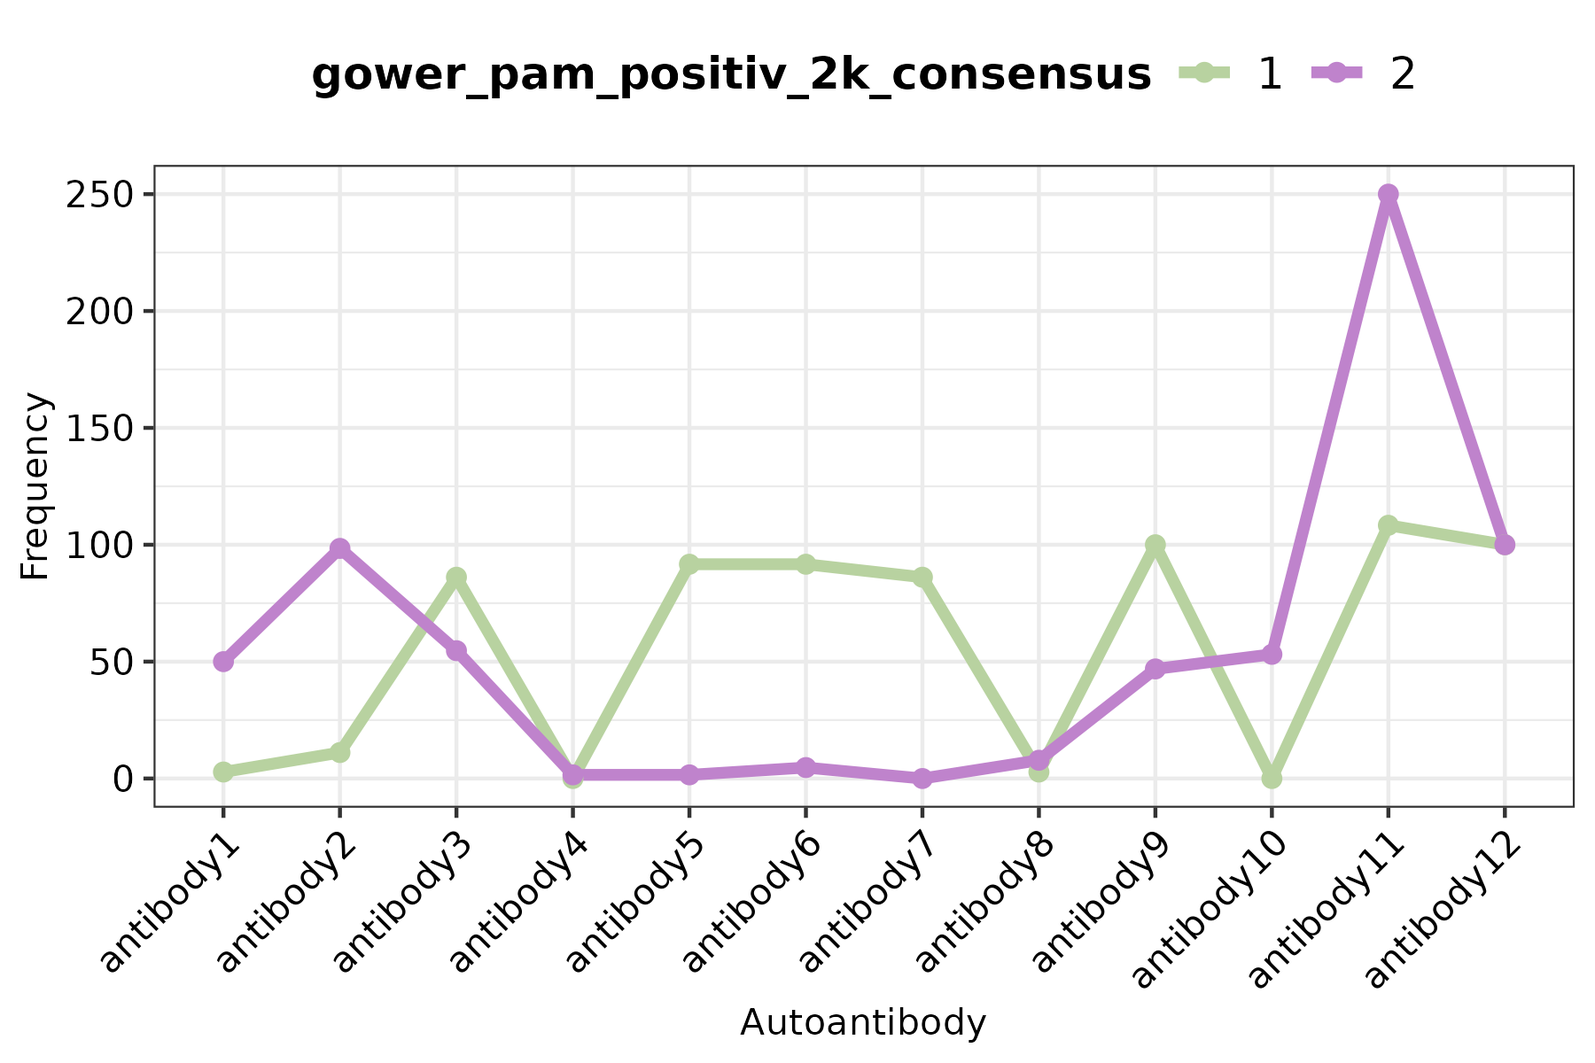
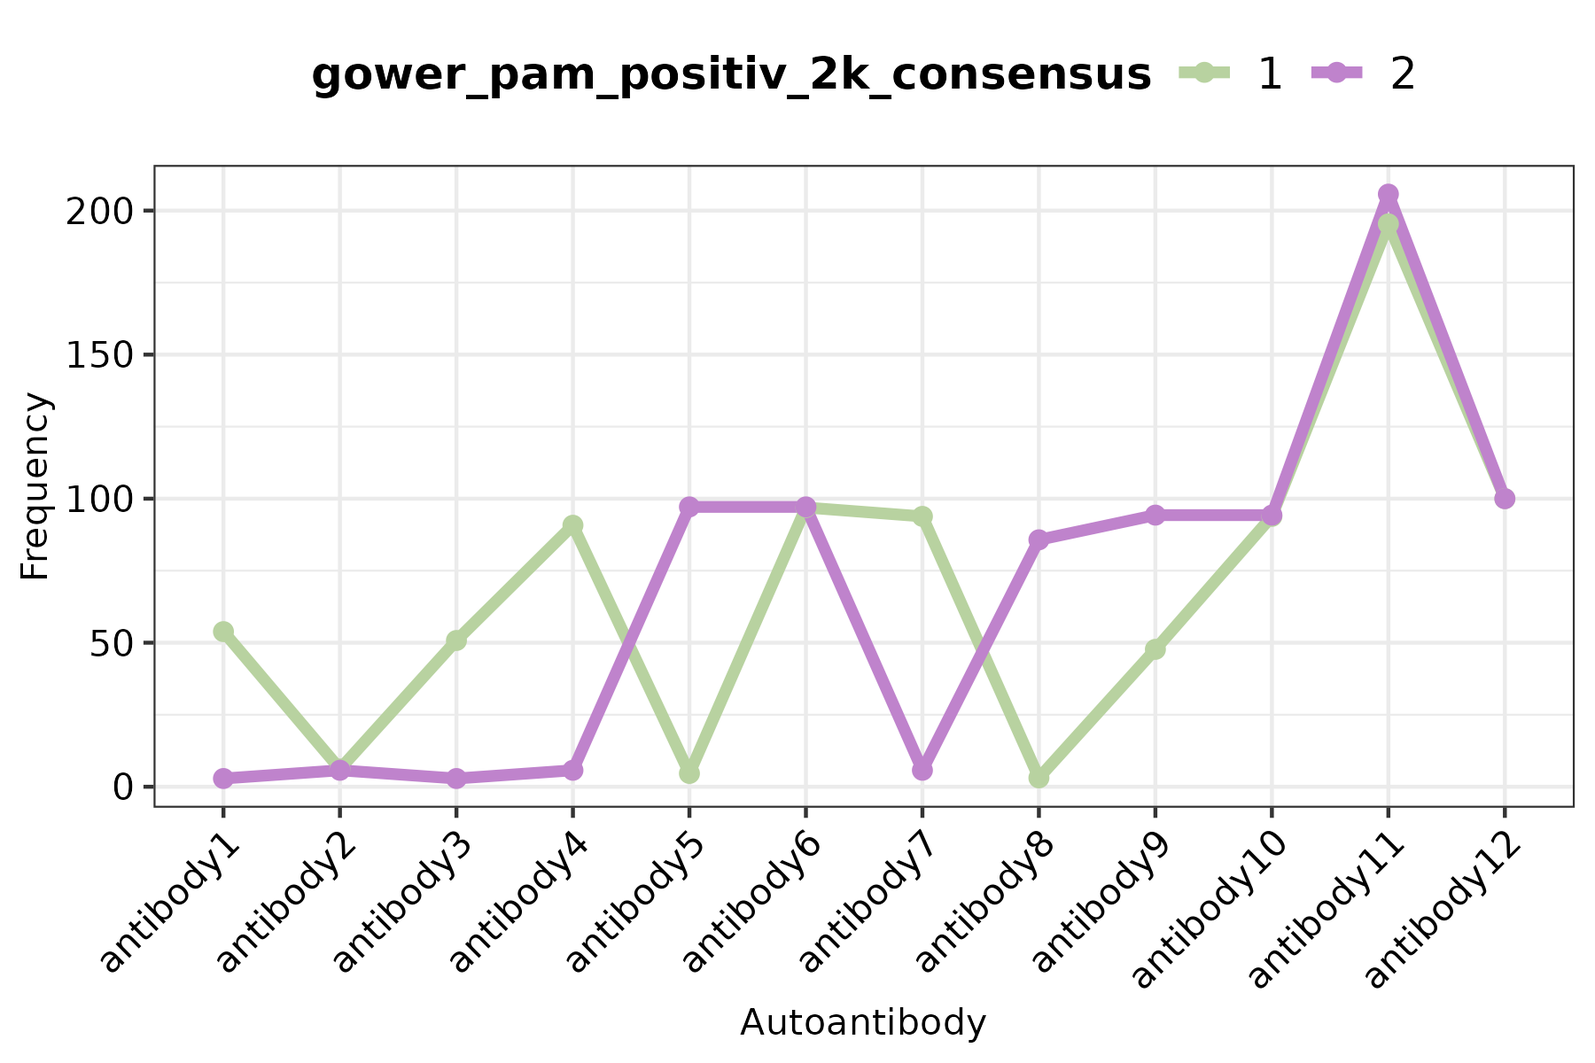
Deploying to gh-pages from @ Anacristina0914/autoclust@5525128db0d23c539ec8eec9d433c0f164592581 🚀

diff --git a/articles/autoclust.html b/articles/autoclust.html
@@ -84,19 +84,19 @@ data is located in your computer.</p>
 <span><span class="co"># Explore dataset</span></span>
 <span><span class="fu"><a href="https://rdrr.io/r/utils/head.html" class="external-link">head</a></span><span class="op">(</span><span class="va">clinical_data_df</span><span class="op">)</span></span></code></pre></div>
 <pre><code><span><span class="co">##         antibody1 antibody2 antibody3 antibody4 antibody5 antibody6 antibody7</span></span>
-<span><span class="co">## sample1         0         0         1         0         1         1         1</span></span>
-<span><span class="co">## sample2         0         0         0         0         1         1         1</span></span>
-<span><span class="co">## sample3         1         0         1         0         1         1         1</span></span>
-<span><span class="co">## sample4         0         0         1         0         1         0         1</span></span>
-<span><span class="co">## sample5         0         0         1         0         1         1         1</span></span>
-<span><span class="co">## sample6         1         1         1         0         0         0         0</span></span>
+<span><span class="co">## sample1         1         0         1         1         0         1         1</span></span>
+<span><span class="co">## sample2         1         0         1         1         0         1         1</span></span>
+<span><span class="co">## sample3         1         0         1         1         0         1         1</span></span>
+<span><span class="co">## sample4         1         0         1         1         0         1         1</span></span>
+<span><span class="co">## sample5         1         0         1         1         0         1         1</span></span>
+<span><span class="co">## sample6         1         0         1         1         0         1         0</span></span>
 <span><span class="co">##         antibody8 antibody9 antibody10 antibody11 antibody12</span></span>
-<span><span class="co">## sample1         0         1          0          1          1</span></span>
-<span><span class="co">## sample2         0         1          0          1          1</span></span>
-<span><span class="co">## sample3         0         1          0          1          1</span></span>
-<span><span class="co">## sample4         0         1          0          1          1</span></span>
-<span><span class="co">## sample5         0         1          0          1          1</span></span>
-<span><span class="co">## sample6         0         1          0          1          1</span></span></code></pre>
+<span><span class="co">## sample1         0         0          1          1          1</span></span>
+<span><span class="co">## sample2         0         1          1          1          1</span></span>
+<span><span class="co">## sample3         0         1          1          1          1</span></span>
+<span><span class="co">## sample4         0         1          1          1          1</span></span>
+<span><span class="co">## sample5         0         1          1          1          1</span></span>
+<span><span class="co">## sample6         0         1          1          1          1</span></span></code></pre>
 <div class="sourceCode" id="cb4"><pre class="downlit sourceCode r">
 <code class="sourceCode R"><span><span class="co"># Establish a directory where to save your results</span></span>
 <span><span class="va">output_data_dir</span> <span class="op">&lt;-</span> <span class="st">"."</span> <span class="co"># This will save the results in the current working directory. You can change it for whatever you want.</span></span></code></pre></div>
@@ -107,96 +107,14 @@ data is located in your computer.</p>
 <p>One can see all the possible parameters of the function
 running:<br>
 /home/runner/work/_temp/Library/autoclust/help/cluster_eval</p>
-<pre><code><span><span class="co">## boot 1 </span></span>
-<span><span class="co">## boot 2 </span></span>
-<span><span class="co">## boot 3 </span></span>
-<span><span class="co">## boot 4 </span></span>
-<span><span class="co">## boot 5 </span></span>
-<span><span class="co">## boot 6 </span></span>
-<span><span class="co">## boot 7 </span></span>
-<span><span class="co">## boot 8 </span></span>
-<span><span class="co">## boot 9 </span></span>
-<span><span class="co">## boot 10</span></span></code></pre>
-<pre><code><span><span class="co">## boot 1 </span></span>
-<span><span class="co">## boot 2 </span></span>
-<span><span class="co">## boot 3 </span></span>
-<span><span class="co">## boot 4 </span></span>
-<span><span class="co">## boot 5 </span></span>
-<span><span class="co">## boot 6 </span></span>
-<span><span class="co">## boot 7 </span></span>
-<span><span class="co">## boot 8 </span></span>
-<span><span class="co">## boot 9 </span></span>
-<span><span class="co">## boot 10</span></span></code></pre>
-<pre><code><span><span class="co">## boot 1 </span></span>
-<span><span class="co">## boot 2 </span></span>
-<span><span class="co">## boot 3 </span></span>
-<span><span class="co">## boot 4 </span></span>
-<span><span class="co">## boot 5 </span></span>
-<span><span class="co">## boot 6 </span></span>
-<span><span class="co">## boot 7 </span></span>
-<span><span class="co">## boot 8 </span></span>
-<span><span class="co">## boot 9 </span></span>
-<span><span class="co">## boot 10</span></span></code></pre>
-<pre><code><span><span class="co">## boot 1 </span></span>
-<span><span class="co">## boot 2 </span></span>
-<span><span class="co">## boot 3 </span></span>
-<span><span class="co">## boot 4 </span></span>
-<span><span class="co">## boot 5 </span></span>
-<span><span class="co">## boot 6 </span></span>
-<span><span class="co">## boot 7 </span></span>
-<span><span class="co">## boot 8 </span></span>
-<span><span class="co">## boot 9 </span></span>
-<span><span class="co">## boot 10</span></span></code></pre>
-<pre><code><span><span class="co">## boot 1 </span></span>
-<span><span class="co">## boot 2 </span></span>
-<span><span class="co">## boot 3 </span></span>
-<span><span class="co">## boot 4 </span></span>
-<span><span class="co">## boot 5 </span></span>
-<span><span class="co">## boot 6 </span></span>
-<span><span class="co">## boot 7 </span></span>
-<span><span class="co">## boot 8 </span></span>
-<span><span class="co">## boot 9 </span></span>
-<span><span class="co">## boot 10</span></span></code></pre>
-<pre><code><span><span class="co">## boot 1 </span></span>
-<span><span class="co">## boot 2 </span></span>
-<span><span class="co">## boot 3 </span></span>
-<span><span class="co">## boot 4 </span></span>
-<span><span class="co">## boot 5 </span></span>
-<span><span class="co">## boot 6 </span></span>
-<span><span class="co">## boot 7 </span></span>
-<span><span class="co">## boot 8 </span></span>
-<span><span class="co">## boot 9 </span></span>
-<span><span class="co">## boot 10</span></span></code></pre>
-<pre><code><span><span class="co">## boot 1 </span></span>
-<span><span class="co">## boot 2 </span></span>
-<span><span class="co">## boot 3 </span></span>
-<span><span class="co">## boot 4 </span></span>
-<span><span class="co">## boot 5 </span></span>
-<span><span class="co">## boot 6 </span></span>
-<span><span class="co">## boot 7 </span></span>
-<span><span class="co">## boot 8 </span></span>
-<span><span class="co">## boot 9 </span></span>
-<span><span class="co">## boot 10</span></span></code></pre>
-<pre><code><span><span class="co">## boot 1 </span></span>
-<span><span class="co">## boot 2 </span></span>
-<span><span class="co">## boot 3 </span></span>
-<span><span class="co">## boot 4 </span></span>
-<span><span class="co">## boot 5 </span></span>
-<span><span class="co">## boot 6 </span></span>
-<span><span class="co">## boot 7 </span></span>
-<span><span class="co">## boot 8 </span></span>
-<span><span class="co">## boot 9 </span></span>
-<span><span class="co">## boot 10</span></span></code></pre>
-<pre><code><span><span class="co">## boot 1 </span></span>
-<span><span class="co">## boot 2 </span></span>
-<span><span class="co">## boot 3 </span></span>
-<span><span class="co">## boot 4 </span></span>
-<span><span class="co">## boot 5 </span></span>
-<span><span class="co">## boot 6 </span></span>
-<span><span class="co">## boot 7 </span></span>
-<span><span class="co">## boot 8 </span></span>
-<span><span class="co">## boot 9 </span></span>
-<span><span class="co">## boot 10</span></span></code></pre>
+<div class="sourceCode" id="cb5"><pre class="downlit sourceCode r">
+<code class="sourceCode R"><span><span class="co"># Run cluster evaluation</span></span>
+<span><span class="va">n_boots</span> <span class="op">&lt;-</span> <span class="fl">10</span> <span class="co"># How many iterations?</span></span>
+<span><span class="va">n_dim</span> <span class="op">&lt;-</span> <span class="fl">10</span> <span class="co"># Until how many clusters to calculate</span></span>
+<span><span class="va">cluster_evaluation_autoantibodies</span> <span class="op">&lt;-</span> <span class="fu"><a href="../reference/cluster_eval.html">cluster_eval</a></span><span class="op">(</span>x <span class="op">=</span> <span class="va">clinical_data_df</span>, ndim <span class="op">=</span> <span class="va">n_dim</span>, distance <span class="op">=</span> <span class="st">"gower"</span>,</span>
+<span>                                                            clust_method <span class="op">=</span> <span class="st">"pam"</span>, save_plot <span class="op">=</span> <span class="cn">TRUE</span>, data_type <span class="op">=</span> <span class="st">"continous"</span>, </span>
+<span>                                                            boot_runs <span class="op">=</span> <span class="va">n_boots</span>, plots_suffix <span class="op">=</span> <span class="st">"clust_positv_pam_gower"</span>,</span>
+<span>                                                            plots_dir <span class="op">=</span> <span class="va">output_data_dir</span><span class="op">)</span></span></code></pre></div>
 </div>
 <div class="section level2">
 <h2 id="explore-results">Explore results<a class="anchor" aria-label="anchor" href="#explore-results"></a>
@@ -213,7 +131,7 @@ within the same cluster) and the nearest-cluster distance (i.e. how far
 the data point is from points in the nearest neighboring cluster) are
 calculated. The individual silhouette scores are represented on the
 first 10 plots, while the average is represented on the last plot.</p>
-<div class="sourceCode" id="cb14"><pre class="downlit sourceCode r">
+<div class="sourceCode" id="cb6"><pre class="downlit sourceCode r">
 <code class="sourceCode R"><span><span class="co"># Show silhouette plots</span></span>
 <span><span class="fu">cowplot</span><span class="fu">::</span><span class="fu"><a href="https://wilkelab.org/cowplot/reference/plot_grid.html" class="external-link">plot_grid</a></span><span class="op">(</span>plotlist <span class="op">=</span> <span class="fu"><a href="https://rdrr.io/r/base/lapply.html" class="external-link">lapply</a></span><span class="op">(</span><span class="va">cluster_evaluation_autoantibodies</span><span class="op">$</span><span class="va">silhouette_plots</span>, <span class="kw">function</span><span class="op">(</span><span class="va">x</span><span class="op">)</span> <span class="va">x</span><span class="op">)</span>, ncol <span class="op">=</span> <span class="fl">2</span><span class="op">)</span> <span class="op">+</span> <span class="fu"><a href="https://ggplot2.tidyverse.org/reference/ggtheme.html" class="external-link">theme_bw</a></span><span class="op">(</span><span class="op">)</span></span></code></pre></div>
 <p><img src="autoclust_files/figure-html/show_clust_eval_results_silhouette-1.png" width="1650"></p>
@@ -224,7 +142,7 @@ first 10 plots, while the average is represented on the last plot.</p>
 <p>Bootstrap stability represented by mean jaccard index, i.e. how
 similar are clusters within themselves when several iterations are
 carried out. The Mean jaccard score by cluster is displayed.</p>
-<div class="sourceCode" id="cb15"><pre class="downlit sourceCode r">
+<div class="sourceCode" id="cb7"><pre class="downlit sourceCode r">
 <code class="sourceCode R"><span><span class="co"># Show jaccard index plots</span></span>
 <span><span class="fu">cowplot</span><span class="fu">::</span><span class="fu"><a href="https://wilkelab.org/cowplot/reference/plot_grid.html" class="external-link">plot_grid</a></span><span class="op">(</span>plotlist <span class="op">=</span> <span class="fu"><a href="https://rdrr.io/r/base/lapply.html" class="external-link">lapply</a></span><span class="op">(</span><span class="va">cluster_evaluation_autoantibodies</span><span class="op">$</span><span class="va">bootstrap</span>, <span class="kw">function</span><span class="op">(</span><span class="va">x</span><span class="op">)</span> <span class="va">x</span><span class="op">$</span><span class="va">plot</span> <span class="op">+</span> <span class="fu"><a href="https://ggplot2.tidyverse.org/reference/ggtheme.html" class="external-link">theme_bw</a></span><span class="op">(</span><span class="op">)</span><span class="op">)</span><span class="op">)</span></span></code></pre></div>
 <p><img src="autoclust_files/figure-html/show_clust_eval_results_jaccard-1.png" width="2700"></p>
@@ -237,7 +155,7 @@ clustering using the specified distance matrix and clustering algorithm,
 and the consensus class, which uses the boostrap information to assign
 patients to the cluster they are most likely to belong to based on
 <code>n_boots</code> number of iterations.</p>
-<div class="sourceCode" id="cb16"><pre class="downlit sourceCode r">
+<div class="sourceCode" id="cb8"><pre class="downlit sourceCode r">
 <code class="sourceCode R"><span><span class="co"># Add group information to your clinical df</span></span>
 <span><span class="va">clinical_data_wcluster_df</span> <span class="op">&lt;-</span> <span class="va">clinical_data_df</span> <span class="op"><a href="https://magrittr.tidyverse.org/reference/pipe.html" class="external-link">%&gt;%</a></span></span>
 <span>  <span class="fu"><a href="https://dplyr.tidyverse.org/reference/mutate.html" class="external-link">mutate</a></span><span class="op">(</span>gower_pam_positiv_2k <span class="op">=</span> <span class="fu"><a href="https://rdrr.io/r/base/factor.html" class="external-link">as.factor</a></span><span class="op">(</span><span class="va">cluster_evaluation_autoantibodies</span><span class="op">$</span><span class="va">fit</span><span class="op">$</span><span class="va">`2`</span><span class="op">$</span><span class="va">clustering</span><span class="op">)</span>,</span>
@@ -250,15 +168,15 @@ patients to the cluster they are most likely to belong to based on
 <span><span class="fu"><a href="../reference/make_aa_lineplot.html">make_aa_lineplot</a></span><span class="op">(</span>x <span class="op">=</span> <span class="va">clinical_data_wcluster_df</span>, aa_colnames <span class="op">=</span> <span class="va">aa_colnames</span>, </span>
 <span>  subgroup_column <span class="op">=</span> <span class="st">"gower_pam_positiv_2k"</span><span class="op">)</span></span></code></pre></div>
 <p><img src="autoclust_files/figure-html/make_lineplot-1.png" width="900"></p>
-<div class="sourceCode" id="cb17"><pre class="downlit sourceCode r">
+<div class="sourceCode" id="cb9"><pre class="downlit sourceCode r">
 <code class="sourceCode R"><span><span class="fu"><a href="../reference/make_aa_lineplot.html">make_aa_lineplot</a></span><span class="op">(</span>x <span class="op">=</span> <span class="va">clinical_data_wcluster_df</span>, aa_colnames <span class="op">=</span> <span class="va">aa_colnames</span>, </span>
 <span>  subgroup_column <span class="op">=</span> <span class="st">"gower_pam_positiv_3k"</span><span class="op">)</span></span></code></pre></div>
 <p><img src="autoclust_files/figure-html/make_lineplot-2.png" width="900"></p>
-<div class="sourceCode" id="cb18"><pre class="downlit sourceCode r">
+<div class="sourceCode" id="cb10"><pre class="downlit sourceCode r">
 <code class="sourceCode R"><span><span class="fu"><a href="../reference/make_aa_lineplot.html">make_aa_lineplot</a></span><span class="op">(</span>x <span class="op">=</span> <span class="va">clinical_data_wcluster_df</span>, aa_colnames <span class="op">=</span> <span class="va">aa_colnames</span>, </span>
 <span>  subgroup_column <span class="op">=</span> <span class="st">"gower_pam_positiv_2k_consensus"</span><span class="op">)</span></span></code></pre></div>
 <p><img src="autoclust_files/figure-html/make_lineplot-3.png" width="900"></p>
-<div class="sourceCode" id="cb19"><pre class="downlit sourceCode r">
+<div class="sourceCode" id="cb11"><pre class="downlit sourceCode r">
 <code class="sourceCode R"><span><span class="fu"><a href="../reference/make_aa_lineplot.html">make_aa_lineplot</a></span><span class="op">(</span>x <span class="op">=</span> <span class="va">clinical_data_wcluster_df</span>, aa_colnames <span class="op">=</span> <span class="va">aa_colnames</span>, </span>
 <span>  subgroup_column <span class="op">=</span> <span class="st">"gower_pam_positiv_3k_consensus"</span><span class="op">)</span></span></code></pre></div>
 <p><img src="autoclust_files/figure-html/make_lineplot-4.png" width="900"></p>
@@ -271,6 +189,25 @@ patients to the cluster they are most likely to belong to based on
 hypothetical binary variables, but if you have a clinical dataset with
 this information, you will replace this section with the name of your
 columns.</p>
+<div class="sourceCode" id="cb12"><pre class="downlit sourceCode r">
+<code class="sourceCode R"><span><span class="co"># DO NOT DO THIS - make hypothetical clinical manifestations and sex</span></span>
+<span><span class="va">clinical_manifestations</span> <span class="op">&lt;-</span> <span class="fu"><a href="../reference/generate_synthetic_clusters.html">generate_synthetic_clusters</a></span><span class="op">(</span>n_samples <span class="op">=</span> <span class="fl">100</span>, n_vars <span class="op">=</span> <span class="fl">4</span>, n_clusters <span class="op">=</span> <span class="fl">3</span>, n_batches <span class="op">=</span> <span class="fl">1</span>, data_type <span class="op">=</span> <span class="st">"binary"</span><span class="op">)</span> <span class="op"><a href="https://magrittr.tidyverse.org/reference/pipe.html" class="external-link">%&gt;%</a></span> <span class="fu"><a href="https://dplyr.tidyverse.org/reference/select.html" class="external-link">select</a></span><span class="op">(</span><span class="va">var1</span>, <span class="va">var2</span>, <span class="va">var3</span>, <span class="va">var4</span><span class="op">)</span></span>
+<span></span>
+<span><span class="fu"><a href="https://rdrr.io/r/base/colnames.html" class="external-link">colnames</a></span><span class="op">(</span><span class="va">clinical_manifestations</span><span class="op">)</span> <span class="op">&lt;-</span> <span class="fu"><a href="https://rdrr.io/r/base/c.html" class="external-link">c</a></span><span class="op">(</span><span class="st">"Arthritis"</span>, <span class="st">"MI"</span>, <span class="st">"IBD"</span>, <span class="st">"sex"</span><span class="op">)</span></span>
+<span></span>
+<span><span class="va">clinical_data_wcluster_df</span> <span class="op">&lt;-</span> <span class="fu"><a href="https://rdrr.io/r/base/merge.html" class="external-link">merge</a></span><span class="op">(</span><span class="va">clinical_data_wcluster_df</span>, <span class="va">clinical_manifestations</span><span class="op">)</span></span>
+<span></span>
+<span><span class="co"># Define clinical manifestations to test for association</span></span>
+<span><span class="va">clinical_manifestations</span> <span class="op">&lt;-</span> <span class="fu"><a href="https://rdrr.io/r/base/c.html" class="external-link">c</a></span><span class="op">(</span><span class="st">"Arthritis"</span>, <span class="st">"MI"</span>, <span class="st">"IBD"</span><span class="op">)</span> <span class="co"># replace with your manifestations names</span></span>
+<span></span>
+<span><span class="va">associations_positiv_2k_clust</span> <span class="op">&lt;-</span> <span class="fu"><a href="../reference/run_associations.html">run_associations</a></span><span class="op">(</span>clinical_data_df <span class="op">=</span> <span class="va">clinical_data_wcluster_df</span>, </span>
+<span>  clinical_data_cols <span class="op">=</span> <span class="va">clinical_manifestations</span>, </span>
+<span>  predictor_var_colname <span class="op">=</span> <span class="st">"gower_pam_positiv_2k"</span>, </span>
+<span>  adjust_by <span class="op">=</span> <span class="st">"sex"</span>, filter_sig_OR <span class="op">=</span> <span class="cn">FALSE</span>, <span class="co"># Set to true if you want to keep only significant results in the forest plot</span></span>
+<span>  plot <span class="op">=</span> <span class="cn">TRUE</span>, ntop <span class="op">=</span> <span class="fl">10</span><span class="op">)</span></span></code></pre></div>
+<div class="section level3">
+<h3 id="forest-plots">Forest plots<a class="anchor" aria-label="anchor" href="#forest-plots"></a>
+</h3>
 <p>Show forest plots for top associations. By calling
 <code>names(associations_positiv_2k_clust)</code> you can see what the
 output of the analysis contains:</p>
@@ -281,25 +218,23 @@ output of the analysis contains:</p>
 <li>df</li>
 <li>forest_plot</li>
 </ul>
-<div class="sourceCode" id="cb20"><pre class="downlit sourceCode r">
+<div class="sourceCode" id="cb13"><pre class="downlit sourceCode r">
 <code class="sourceCode R"><span><span class="fu"><a href="https://rdrr.io/r/base/names.html" class="external-link">names</a></span><span class="op">(</span><span class="va">associations_positiv_2k_clust</span><span class="op">)</span> <span class="co"># Here you can see the information this variable contains.</span></span></code></pre></div>
 <pre><code><span><span class="co">## [1] "models"             "anova"              "summarized_results"</span></span>
 <span><span class="co">## [4] "df"                 "forest_plot"</span></span></code></pre>
-<div class="sourceCode" id="cb22"><pre class="downlit sourceCode r">
+<div class="sourceCode" id="cb15"><pre class="downlit sourceCode r">
 <code class="sourceCode R"><span><span class="co">#associations_positiv_2k_clust$anova # ANOVA results</span></span>
 <span><span class="va">associations_positiv_2k_clust</span><span class="op">$</span><span class="va">forest_plot</span> <span class="co"># forest plots</span></span></code></pre></div>
 <p><img src="autoclust_files/figure-html/forest_plots-1.png" width="1200"></p>
-</div>
-<div class="section level2">
-<h2 id="conclusions">Conclusions<a class="anchor" aria-label="anchor" href="#conclusions"></a>
-</h2>
-<p>The results of the plots show “clinical manifestation - cluster -
+<p>** How to interpret these?**<br>
+The results of the plots show “clinical manifestation - cluster -
 clustering_variable”, where clinical manifestation corresponds to the
 outcome variable, cluster corresponds to cluster membership in a
 one-v.s.-all other manner. Here the clinical manifestation corresponds
 to the dependent variable (variable to be modelled), and the cluster
 membership corresponds to the independent (predictor) variable. For each
 clinical manifestation in this case we have a model in this form:<br><code>clinical manifestation ~ gower_pam_positiv_2k + sex</code></p>
+</div>
 </div>
   </main><aside class="col-md-3"><nav id="toc" aria-label="Table of contents"><h2>On this page</h2>
     </nav></aside>
